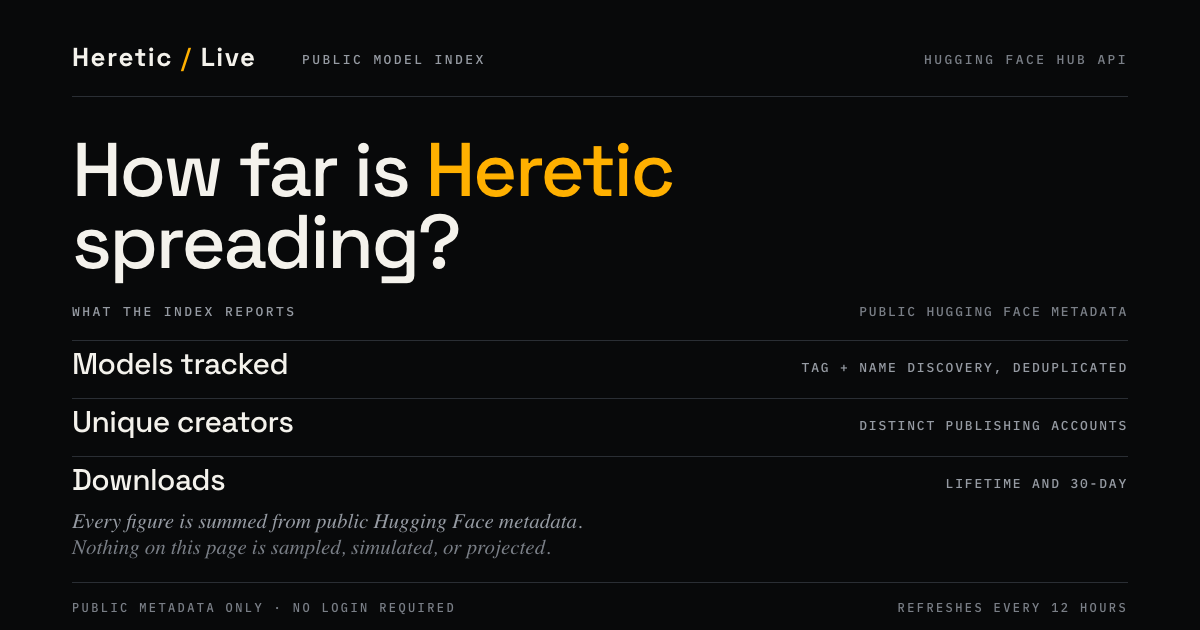
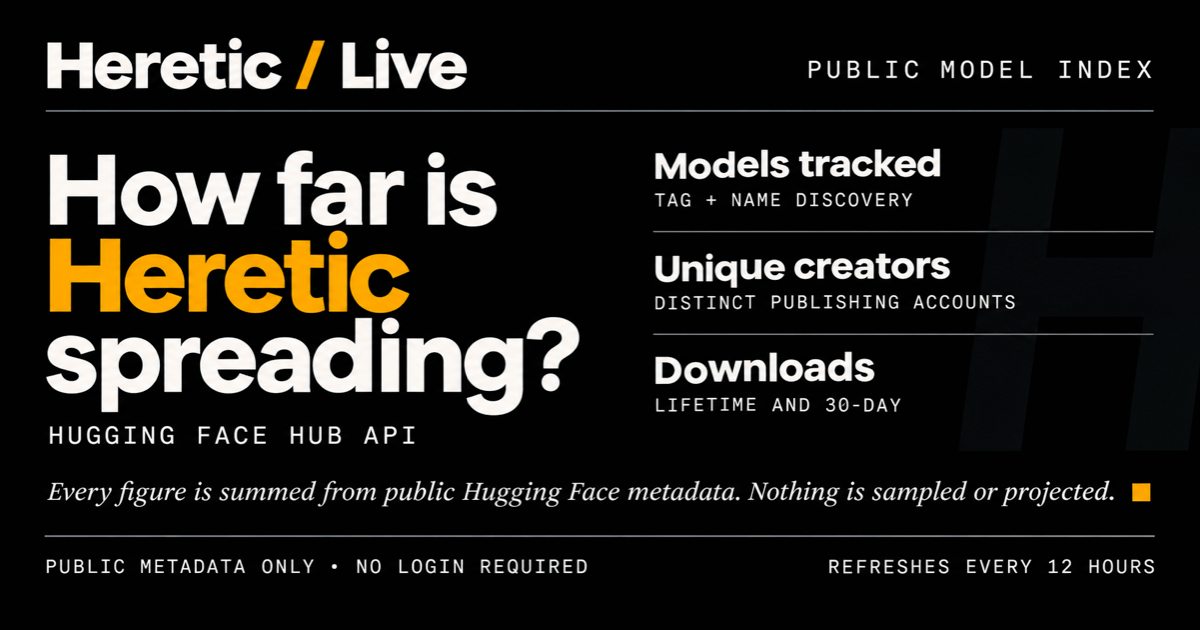
Replace the social card with the generated artwork
Use the generated 1200x630 card, retire the hand-authored SVG source, and update the README and public asset contract to match.

diff --git a/public/AGENTS.md b/public/AGENTS.md
@@ -2,34 +2,33 @@
 
 ## Purpose
 
-Files served verbatim at the site root. Crawler instructions, an AI-readable summary, the favicon, and the social preview images.
+Files served verbatim at the site root. Crawler instructions, an AI-readable summary, the favicon, and the social preview image.
 
 ## Ownership
 
 - `robots.txt` and `sitemap.xml` are the crawler surface
 - `llms.txt` is the AI-readable product and methodology summary
 - `favicon.svg` and `apple-touch-icon.png` are the browser icons
-- `og-image.svg` is the editable source artwork and the single source of truth; `og-image.png` is the 1200 by 630 raster rendered from it, and the file the Open Graph and Twitter tags actually reference
+- `og-image.png` is the 1200 by 630 card used by the Open Graph and Twitter tags, and the source of truth for the preview artwork
 - Owns no code. Nothing here is imported by the build
 
 ## Local Contracts
 
 - Social metadata lives in the `index.html` head, not here. Keep the two in sync when filenames or dimensions change
-- The Open Graph and Twitter tags point at `og-image.png`, not the SVG. Discord, WhatsApp, and several other unfurlers do not reliably render SVG previews
-- `og-image.svg` and `og-image.png` are one asset in two formats. Change both together or the link preview drifts from the source of truth
+- The Open Graph and Twitter tags point at `og-image.png`, not an SVG. Discord, WhatsApp, and several other unfurlers do not reliably render SVG previews
+- `og-image.png` is a raster. Regenerate it at 1200 by 630 and keep the card free of hardcoded totals
 - `llms.txt` stays truthful about the real limitations: public metadata only, no authentication, no private repositories, and a degraded state when the upstream API is unavailable
 - Filenames are part of the live URL surface. Renaming one breaks published links, meta tags, or the sitemap. Add instead of renaming
 - Assets carry no build step. They are committed as authored
 - `sitemap.xml` `lastmod` sits inside `<!-- snapshot:lastmod -->` and is rewritten by `update-snapshot.mjs`. The snapshot date is the last real content change for the URL, because the published figures move twice a day
 - `favicon.svg` and `apple-touch-icon.png` are the site mark in the site palette: ground `#08090a`, phosphor `#ffb000`, ink `#f4f2ec`. They carry no text and no figures, so they cannot go stale
-- `apple-touch-icon.svg` is the editable source for the PNG, alongside `og-image.svg` for its card
+- `apple-touch-icon.svg` is the editable source for the apple-touch-icon PNG
 - `llms.txt` states the provenance relationship to p-e-w/heretic#450 and the unaffiliated-third-party position. That is an accuracy contract, not marketing copy: without it an engine may attribute these totals to the upstream project
-- `og-image.svg` embeds Space Grotesk, IBM Plex Mono, and Spectral as base64 WOFF2 so it renders identically offline. Keep them embedded when editing; a `font-family` reference to a system or CDN font will silently fall back
-- `og-image.svg` carries no hardcoded totals. The hero is the three register labels (Models tracked, Unique creators, Downloads) plus a sourced-data note, so the card never goes stale against a 12-hour dataset. Do not add a number back without also adding its as-of date
+- `og-image.png` carries no hardcoded totals. The hero is the three register labels (Models tracked, Unique creators, Downloads) plus a sourced-data note, so the card never goes stale against a 12-hour dataset. Do not add a number back without also adding its as-of date
 
 ## Work Guidance
 
-- Follow the existing visual system in `DESIGN.md` when drawing new assets so the social preview still reads as this product
+- Follow the existing visual system in `DESIGN.md` when generating new assets so the social preview still reads as this product
 - Record the provenance of any regenerated raster in `README.md`. Do not claim a tool that was not actually used
 
 ## Verification

diff --git a/README.md b/README.md
@@ -133,20 +133,19 @@ The site includes crawlability and social-sharing files:
 - `index.html` carries canonical, Open Graph, Twitter card, and JSON-LD metadata.
 - The methodology prose, the entity disclaimer, and the outbound links appear in both `index.html` and `src/main.js`. The static fallback disappears the moment JavaScript runs, so a link that exists only there is a link no visitor and no rendering crawler sees.
 - The page links `/api/stats` as the authoritative machine-readable surface.
-- `public/og-image.png` is the compatible 1200×630 raster for social previews.
-- `public/og-image.svg` is the editable source for that PNG.
+- `public/og-image.png` is the 1200×630 card used for social previews.
 
 The social metadata points to the PNG because Discord, WhatsApp, and some other link unfurlers do not reliably render SVG Open Graph images.
 
 ### Social preview artwork
 
-`og-image.svg` is the source of truth. The PNG is rendered from it, so the two stay in step.
+`og-image.png` is the delivered card. It was generated with an image model from a prompt based on the design system in `DESIGN.md`, then cropped and resized to 1200×630. There is no separate vector source.
 
-The card follows the design system in `DESIGN.md`: near-black ground, phosphor amber, Space Grotesk for the statement, IBM Plex Mono for labels, and Spectral italic for the provenance note. The SVG embeds Space Grotesk, IBM Plex Mono, and Spectral as base64 WOFF2, so it renders the same in any browser without a network font request.
+The card uses the visual system: near-black ground, phosphor amber, a grotesque for the statement, a monospaced face for labels, and an italic serif for the provenance note.
 
 The card carries no hardcoded totals. A link preview is the most screenshotted and most believed surface on the site, and any number baked into the artwork will go stale. The hero is three register labels: Models tracked, Unique creators, and Downloads. A note says every figure is summed from public Hugging Face metadata. Nothing is sampled or projected, so the card never goes stale. `og:image:alt` describes what the card shows.
 
-Provenance: the SVG was authored by hand to the design system above. The PNG was rendered from that SVG by headless Google Chrome at 1200×630, which resolves the embedded webfonts exactly as a browser would. No external image-generation service was used, and no Antigravity-generated asset is claimed.
+Provenance: the card was generated externally with an image model, then cropped and resized to 1200×630. No totals are baked into the artwork.
 
 ## Keeping the published figures current
 
